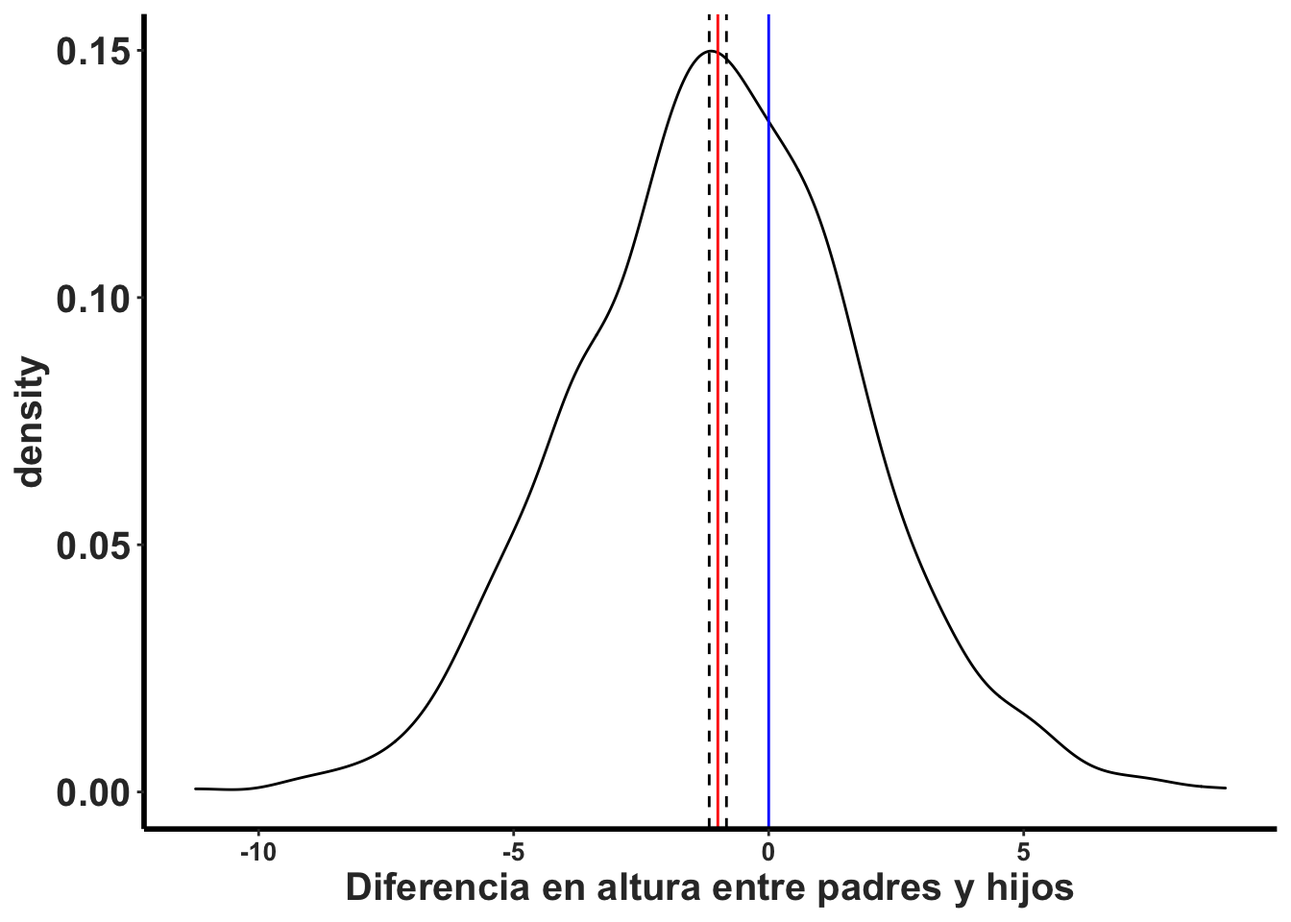
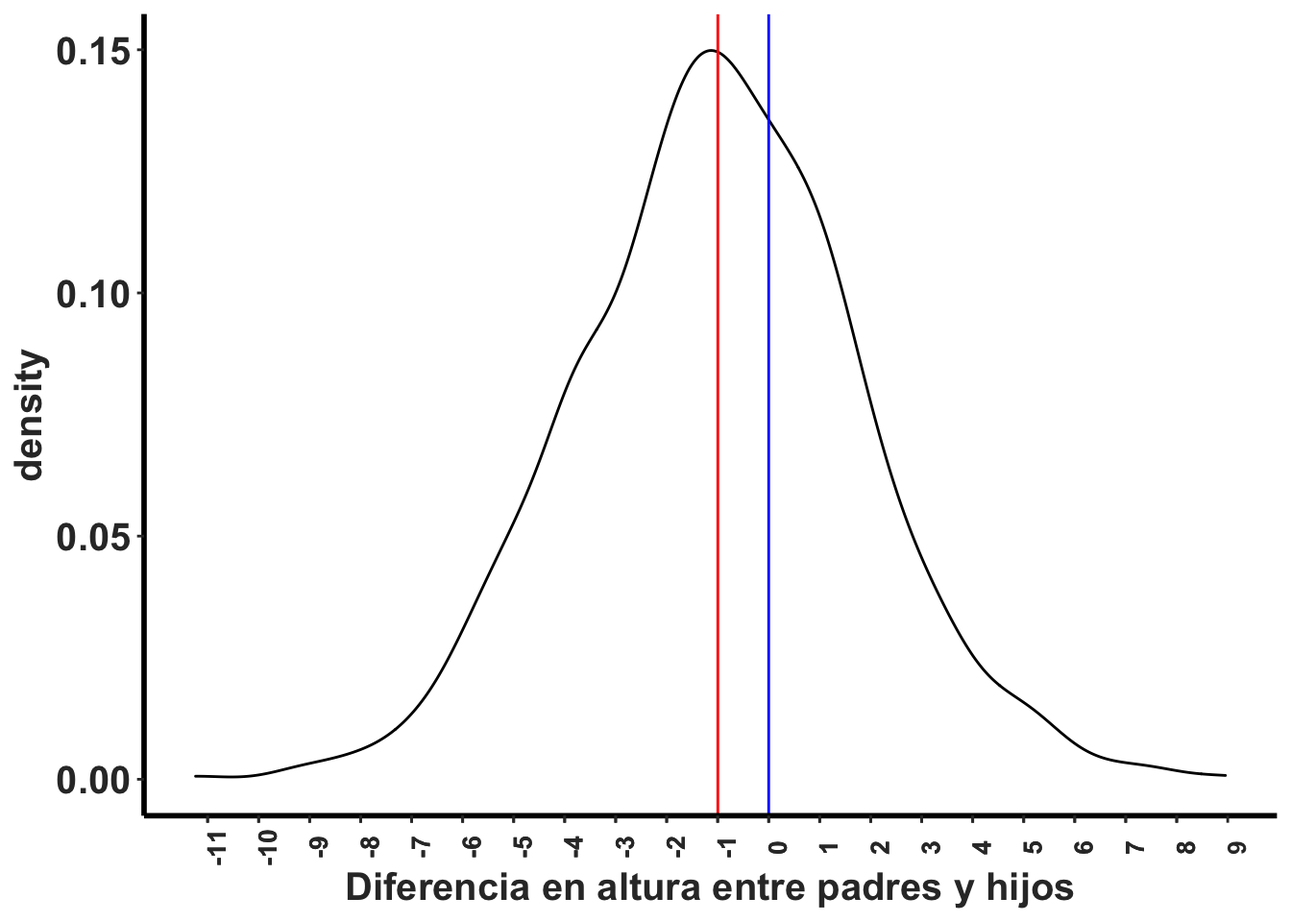
T9a

diff --git a/T9a_Pruebas_t-Pareados.html b/T9a_Pruebas_t-Pareados.html
@@ -489,37 +489,35 @@ div.tocify {
 
 
 <p>Fecha de la ultima revisión</p>
-<pre><code>## [1] &quot;2020-08-06&quot;</code></pre>
-<div id="prueba-de-t-pareado" class="section level1">
-<h1>Prueba de t-pareado</h1>
-<p>Si tienes datos que no son independiente, es necesario usar la prueba con datos pareados (paired t-test). Cuando se refiere a datos no independiente es que hay evidencia que los datos pueden estar relacionado de una forma. En el siguiente ejemplo tenemos la altura de los padres y el altura de el hijo. Hay evidencia que genética influencia la altura de los humanos, también hay el ambiente. Si el ambiente (nutrición, etc) es la única variable que tiene influencia sobre la altura pudiese que no encontramos una relación entre la altura del padre y el hijo.</p>
+<pre><code>## [1] &quot;2020-08-07&quot;</code></pre>
+<div id="datos-dependientes" class="section level1">
+<h1>Datos dependientes</h1>
+<p>Si tienes datos que no son independiente, es necesario usar la prueba con datos pareados (paired t-test). Cuando se refiere a datos no independiente es que hay evidencia que los datos pueden estar relacionado de una forma. En el siguiente ejemplo tenemos la altura de los padres y el altura de el hijo. Hay evidencia que la genética influencia la altura de los humanos, también hay el ambiente. Si el ambiente (nutrición, etc) es la única variable que tiene influencia sobre la altura pudiese que no se debería encontrar una relación entre la altura del padre y el hijo. Si la genética es la única variable que impacta la altura de los humanos, en este caso deberíamos encontrar una muy fuerte correlación entre la alturas de los padres y los hijos.</p>
 <p>Los datos provienen del paquete <strong>UsingR</strong> y el archivo se llama <strong>father.son</strong></p>
+<p>Primero mire los datos y los nombres de las variables.</p>
 <p>Paired Two-Sample T-test</p>
 <pre class="r"><code>require(Hmisc)
 require(UsingR)
 head(father.son)</code></pre>
-<p><table class="huxtable" style="border-collapse: collapse; border: 0px; margin-bottom: 2em; margin-top: 2em; ; margin-left: auto; margin-right: auto;  " id="tab:data">
-<col><col><tr>
-<th style="vertical-align: top; text-align: right; white-space: normal; border-style: solid solid solid solid; border-width: 0.4pt 0pt 0.4pt 0.4pt;    padding: 6pt 6pt 6pt 6pt; font-weight: bold;">fheight</th><th style="vertical-align: top; text-align: right; white-space: normal; border-style: solid solid solid solid; border-width: 0.4pt 0.4pt 0.4pt 0pt;    padding: 6pt 6pt 6pt 6pt; font-weight: bold;">sheight</th></tr>
-<tr>
-<td style="vertical-align: top; text-align: right; white-space: normal; border-style: solid solid solid solid; border-width: 0.4pt 0pt 0pt 0.4pt;    padding: 6pt 6pt 6pt 6pt; background-color: rgb(242, 242, 242); font-weight: normal;">65&nbsp;&nbsp;</td><td style="vertical-align: top; text-align: right; white-space: normal; border-style: solid solid solid solid; border-width: 0.4pt 0.4pt 0pt 0pt;    padding: 6pt 6pt 6pt 6pt; background-color: rgb(242, 242, 242); font-weight: normal;">59.8</td></tr>
-<tr>
-<td style="vertical-align: top; text-align: right; white-space: normal; border-style: solid solid solid solid; border-width: 0pt 0pt 0pt 0.4pt;    padding: 6pt 6pt 6pt 6pt; font-weight: normal;">63.3</td><td style="vertical-align: top; text-align: right; white-space: normal; border-style: solid solid solid solid; border-width: 0pt 0.4pt 0pt 0pt;    padding: 6pt 6pt 6pt 6pt; font-weight: normal;">63.2</td></tr>
-<tr>
-<td style="vertical-align: top; text-align: right; white-space: normal; border-style: solid solid solid solid; border-width: 0pt 0pt 0pt 0.4pt;    padding: 6pt 6pt 6pt 6pt; background-color: rgb(242, 242, 242); font-weight: normal;">65&nbsp;&nbsp;</td><td style="vertical-align: top; text-align: right; white-space: normal; border-style: solid solid solid solid; border-width: 0pt 0.4pt 0pt 0pt;    padding: 6pt 6pt 6pt 6pt; background-color: rgb(242, 242, 242); font-weight: normal;">63.3</td></tr>
-<tr>
-<td style="vertical-align: top; text-align: right; white-space: normal; border-style: solid solid solid solid; border-width: 0pt 0pt 0pt 0.4pt;    padding: 6pt 6pt 6pt 6pt; font-weight: normal;">65.8</td><td style="vertical-align: top; text-align: right; white-space: normal; border-style: solid solid solid solid; border-width: 0pt 0.4pt 0pt 0pt;    padding: 6pt 6pt 6pt 6pt; font-weight: normal;">62.8</td></tr>
-<tr>
-<td style="vertical-align: top; text-align: right; white-space: normal; border-style: solid solid solid solid; border-width: 0pt 0pt 0pt 0.4pt;    padding: 6pt 6pt 6pt 6pt; background-color: rgb(242, 242, 242); font-weight: normal;">61.1</td><td style="vertical-align: top; text-align: right; white-space: normal; border-style: solid solid solid solid; border-width: 0pt 0.4pt 0pt 0pt;    padding: 6pt 6pt 6pt 6pt; background-color: rgb(242, 242, 242); font-weight: normal;">64.3</td></tr>
-<tr>
-<td style="vertical-align: top; text-align: right; white-space: normal; border-style: solid solid solid solid; border-width: 0pt 0pt 0.4pt 0.4pt;    padding: 6pt 6pt 6pt 6pt; font-weight: normal;">63&nbsp;&nbsp;</td><td style="vertical-align: top; text-align: right; white-space: normal; border-style: solid solid solid solid; border-width: 0pt 0.4pt 0.4pt 0pt;    padding: 6pt 6pt 6pt 6pt; font-weight: normal;">64.2</td></tr>
-</table>
- *** ## Visualizar la diferencias</p>
-<p>Antes de hacer la prueba es recomendado hacer un gráfico de puntos para visualizar los datos y observar si hay un patrón. Vemos a medida que aumenta la altura de los padres los hijos tienden a estar más altos.</p>
+<pre><code>##    fheight  sheight
+## 1 65.04851 59.77827
+## 2 63.25094 63.21404
+## 3 64.95532 63.34242
+## 4 65.75250 62.79238
+## 5 61.13723 64.28113
+## 6 63.02254 64.24221</code></pre>
+<hr />
+<div id="visualizar-la-correlación" class="section level2">
+<h2>Visualizar la correlación</h2>
+<p>Antes de hacer la prueba es recomendado hacer un gráfico de puntos para visualizar los datos y observar si hay un patrón. Vemos a medida que aumenta la altura de los padres los hijos tienden a estar más altos. parece que hay una correlación en la altura de los hijos basado en la altura del padre.</p>
 <pre class="r"><code>ggplot(father.son, aes(fheight, sheight))+
   geom_point()+
   rlt_theme</code></pre>
 <p><img src="T9a_Pruebas_t-Pareados_files/figure-html/geompoint-1.png" width="672" /> ***</p>
+</div>
+</div>
+<div id="la-prueba-de-t-pareado" class="section level1">
+<h1>La prueba de t-pareado</h1>
 <p>La prueba de t-con datos pareados es la misma que la prueba de t con un grupo, <strong>t.test()</strong>.</p>
 <p>La hipótesis nula es que la diferencia entre los datos dependientes es igual a cero. La <strong>d</strong> se refiere a la diferencia entre los pares de datos. Nota entonces que el análisis se hace evaluando si el promedio de las diferencias es igual a cero.</p>
 <ul>
@@ -527,7 +525,7 @@ head(father.son)</code></pre>
 <li>Ha: <span class="math inline">\(\overline{x_d}≠0\)</span></li>
 </ul>
 <p>La prueba de t con datos pareados.</p>
-<p><span class="math display">\[t=\bar{\frac{d}{\frac{s_d}{\sqrt{n}}}}\]</span></p>
+<p><span class="math display">\[\left|t\right|=\bar{\frac{d}{\frac{s_d}{\sqrt{n}}}}\]</span></p>
 <p>Si el valor absoluto de las estadísticas de la prueba <span class="math inline">\(\begin{array}{l}t=\left|t\right|\\\end{array}\)</span> es mayor que el valor crítico, entonces la diferencia es significativa. El nivel critico del valor <strong>p</strong> corresponde al indicado en la tabla de la prueba tomando en cuanta el grado de libertad, la cantidad de error I y si es de un lado o ambos lados.</p>
 <p>Las opciones para esta prueba son las siguientes en roja</p>
 <ul>
@@ -538,7 +536,7 @@ head(father.son)</code></pre>
 <li><span style="color: red;">conf.level = 0.95</span>, …).</li>
 </ul></li>
 </ul>
-<p>El resultado: El valor de t-observado es de 11.789, con un grado de libertad de 1077 (n=1078), y valor de p &lt;0.0001. Por consecuencia se rechaza la hipótesis nula y se acepta la alterna. El intervalo de confianza del promedio es -1.163 a -0.831, con un promedio de -0.99. Esto significa que los padres tiende a estar una pulgada (-0.99) más bajo que los hijos.</p>
+<p>El resultado: El valor de <span class="math inline">\(\left|t\right|\)</span> observado es de 11.789, con un grado de libertad de 1077 (n=1078), y un valor de p &lt;0.0001. Por consecuencia se rechaza la hipótesis nula y se acepta la alterna. El intervalo de confianza del promedio es -1.163 a -0.831, con un promedio de -0.99. Esto significa que los padres tiende a estar una pulgada (-0.99) más bajo que los hijos.</p>
 <pre class="r"><code>t.test(father.son$fheight, father.son$sheight, paired=TRUE)</code></pre>
 <pre><code>## 
 ##  Paired t-test
@@ -554,15 +552,17 @@ head(father.son)</code></pre>
 <hr />
 <div id="visualizar-la-diferencias" class="section level2">
 <h2>Visualizar la diferencias</h2>
-<p>Podemos visualizar la diferencia entre los hijos y los padres, vemos el promedio si no tuviese diferencis (la linea azul), y el estimado (el promedio de la diferencias es rojo, con el intervalo de confianza en las lineas entrecortada).</p>
-<pre class="r"><code>heightDiff&lt;-father.son$fheight-father.son$sheight # para calcular la diferencia entre el padre y el hijo. 
+<p>Podemos visualizar la diferencia entre los hijos y los padres. Vemos el promedio si no tuviese diferencia (la linea azul), esto es nuestra hipótesis nula, y el estimado (el promedio de la diferencias es rojo, con el intervalo de confianza en las lineas entrecortada). Si nuestro estimado (el intervalo de confianza de 95%) hubiese incluido la linea azul la prueba no seria significativa, y habriamos aceptado la hipótesis nula.</p>
+<pre class="r"><code>father.son$heightDiff&lt;-father.son$fheight-father.son$sheight # para calcular la diferencia entre el padre y el hijo. 
 ggplot(father.son, aes(x=fheight-sheight))+
   geom_density()+
-  geom_vline(xintercept = mean(heightDiff), colour=&quot;red&quot;)+
-  geom_vline(xintercept = mean(heightDiff)+ 2*c(-1,1)*sd(heightDiff)/sqrt(nrow(father.son)), linetype=2)+
+  geom_vline(xintercept = mean(father.son$heightDiff), colour=&quot;red&quot;)+
+  geom_vline(xintercept = mean(father.son$father.son$heightDiff)+ 2*c(-1,1)*sd(father.son$heightDiff)/sqrt(nrow(father.son)), linetype=2)+
   geom_vline(xintercept = 0, colour=&quot;blue&quot;)+
   rlt_theme+
-  xlab(&quot;Diferencia en altura entre padres y hijos&quot;)</code></pre>
+  xlab(&quot;Diferencia en altura entre padres y hijos&quot;)+
+  scale_x_continuous(breaks = round(seq(min(father.son$heightDiff), max(father.son$heightDiff), by = .5),0))+
+  theme(axis.text.x = element_text(angle = 90))</code></pre>
 <p><img src="T9a_Pruebas_t-Pareados_files/figure-html/graph2-1.png" width="672" /> ***</p>
 </div>
 </div>
@@ -577,82 +577,42 @@ madre=c(2,3,3,3,1,2,2,
         2,2,2,2,1,3,2,2,2)
 df=data.frame(abuela,madre)
 df</code></pre>
-<table class="huxtable" style="border-collapse: collapse; border: 0px; margin-bottom: 2em; margin-top: 2em; ; margin-left: auto; margin-right: auto;  " id="tab:abuelamadre">
-<col><col><tr>
-<th style="vertical-align: top; text-align: right; white-space: normal; border-style: solid solid solid solid; border-width: 0.4pt 0pt 0.4pt 0.4pt;    padding: 6pt 6pt 6pt 6pt; font-weight: bold;">abuela</th><th style="vertical-align: top; text-align: right; white-space: normal; border-style: solid solid solid solid; border-width: 0.4pt 0.4pt 0.4pt 0pt;    padding: 6pt 6pt 6pt 6pt; font-weight: bold;">madre</th></tr>
-<tr>
-<td style="vertical-align: top; text-align: right; white-space: normal; border-style: solid solid solid solid; border-width: 0.4pt 0pt 0pt 0.4pt;    padding: 6pt 6pt 6pt 6pt; background-color: rgb(242, 242, 242); font-weight: normal;">3</td><td style="vertical-align: top; text-align: right; white-space: normal; border-style: solid solid solid solid; border-width: 0.4pt 0.4pt 0pt 0pt;    padding: 6pt 6pt 6pt 6pt; background-color: rgb(242, 242, 242); font-weight: normal;">2</td></tr>
-<tr>
-<td style="vertical-align: top; text-align: right; white-space: normal; border-style: solid solid solid solid; border-width: 0pt 0pt 0pt 0.4pt;    padding: 6pt 6pt 6pt 6pt; font-weight: normal;">11</td><td style="vertical-align: top; text-align: right; white-space: normal; border-style: solid solid solid solid; border-width: 0pt 0.4pt 0pt 0pt;    padding: 6pt 6pt 6pt 6pt; font-weight: normal;">3</td></tr>
-<tr>
-<td style="vertical-align: top; text-align: right; white-space: normal; border-style: solid solid solid solid; border-width: 0pt 0pt 0pt 0.4pt;    padding: 6pt 6pt 6pt 6pt; background-color: rgb(242, 242, 242); font-weight: normal;">3</td><td style="vertical-align: top; text-align: right; white-space: normal; border-style: solid solid solid solid; border-width: 0pt 0.4pt 0pt 0pt;    padding: 6pt 6pt 6pt 6pt; background-color: rgb(242, 242, 242); font-weight: normal;">3</td></tr>
-<tr>
-<td style="vertical-align: top; text-align: right; white-space: normal; border-style: solid solid solid solid; border-width: 0pt 0pt 0pt 0.4pt;    padding: 6pt 6pt 6pt 6pt; font-weight: normal;">9</td><td style="vertical-align: top; text-align: right; white-space: normal; border-style: solid solid solid solid; border-width: 0pt 0.4pt 0pt 0pt;    padding: 6pt 6pt 6pt 6pt; font-weight: normal;">3</td></tr>
-<tr>
-<td style="vertical-align: top; text-align: right; white-space: normal; border-style: solid solid solid solid; border-width: 0pt 0pt 0pt 0.4pt;    padding: 6pt 6pt 6pt 6pt; background-color: rgb(242, 242, 242); font-weight: normal;">3</td><td style="vertical-align: top; text-align: right; white-space: normal; border-style: solid solid solid solid; border-width: 0pt 0.4pt 0pt 0pt;    padding: 6pt 6pt 6pt 6pt; background-color: rgb(242, 242, 242); font-weight: normal;">1</td></tr>
-<tr>
-<td style="vertical-align: top; text-align: right; white-space: normal; border-style: solid solid solid solid; border-width: 0pt 0pt 0pt 0.4pt;    padding: 6pt 6pt 6pt 6pt; font-weight: normal;">3</td><td style="vertical-align: top; text-align: right; white-space: normal; border-style: solid solid solid solid; border-width: 0pt 0.4pt 0pt 0pt;    padding: 6pt 6pt 6pt 6pt; font-weight: normal;">2</td></tr>
-<tr>
-<td style="vertical-align: top; text-align: right; white-space: normal; border-style: solid solid solid solid; border-width: 0pt 0pt 0pt 0.4pt;    padding: 6pt 6pt 6pt 6pt; background-color: rgb(242, 242, 242); font-weight: normal;">3</td><td style="vertical-align: top; text-align: right; white-space: normal; border-style: solid solid solid solid; border-width: 0pt 0.4pt 0pt 0pt;    padding: 6pt 6pt 6pt 6pt; background-color: rgb(242, 242, 242); font-weight: normal;">2</td></tr>
-<tr>
-<td style="vertical-align: top; text-align: right; white-space: normal; border-style: solid solid solid solid; border-width: 0pt 0pt 0pt 0.4pt;    padding: 6pt 6pt 6pt 6pt; font-weight: normal;">4</td><td style="vertical-align: top; text-align: right; white-space: normal; border-style: solid solid solid solid; border-width: 0pt 0.4pt 0pt 0pt;    padding: 6pt 6pt 6pt 6pt; font-weight: normal;">2</td></tr>
-<tr>
-<td style="vertical-align: top; text-align: right; white-space: normal; border-style: solid solid solid solid; border-width: 0pt 0pt 0pt 0.4pt;    padding: 6pt 6pt 6pt 6pt; background-color: rgb(242, 242, 242); font-weight: normal;">3</td><td style="vertical-align: top; text-align: right; white-space: normal; border-style: solid solid solid solid; border-width: 0pt 0.4pt 0pt 0pt;    padding: 6pt 6pt 6pt 6pt; background-color: rgb(242, 242, 242); font-weight: normal;">2</td></tr>
-<tr>
-<td style="vertical-align: top; text-align: right; white-space: normal; border-style: solid solid solid solid; border-width: 0pt 0pt 0pt 0.4pt;    padding: 6pt 6pt 6pt 6pt; font-weight: normal;">7</td><td style="vertical-align: top; text-align: right; white-space: normal; border-style: solid solid solid solid; border-width: 0pt 0.4pt 0pt 0pt;    padding: 6pt 6pt 6pt 6pt; font-weight: normal;">2</td></tr>
-<tr>
-<td style="vertical-align: top; text-align: right; white-space: normal; border-style: solid solid solid solid; border-width: 0pt 0pt 0pt 0.4pt;    padding: 6pt 6pt 6pt 6pt; background-color: rgb(242, 242, 242); font-weight: normal;">6</td><td style="vertical-align: top; text-align: right; white-space: normal; border-style: solid solid solid solid; border-width: 0pt 0.4pt 0pt 0pt;    padding: 6pt 6pt 6pt 6pt; background-color: rgb(242, 242, 242); font-weight: normal;">2</td></tr>
-<tr>
-<td style="vertical-align: top; text-align: right; white-space: normal; border-style: solid solid solid solid; border-width: 0pt 0pt 0pt 0.4pt;    padding: 6pt 6pt 6pt 6pt; font-weight: normal;">7</td><td style="vertical-align: top; text-align: right; white-space: normal; border-style: solid solid solid solid; border-width: 0pt 0.4pt 0pt 0pt;    padding: 6pt 6pt 6pt 6pt; font-weight: normal;">1</td></tr>
-<tr>
-<td style="vertical-align: top; text-align: right; white-space: normal; border-style: solid solid solid solid; border-width: 0pt 0pt 0pt 0.4pt;    padding: 6pt 6pt 6pt 6pt; background-color: rgb(242, 242, 242); font-weight: normal;">6</td><td style="vertical-align: top; text-align: right; white-space: normal; border-style: solid solid solid solid; border-width: 0pt 0.4pt 0pt 0pt;    padding: 6pt 6pt 6pt 6pt; background-color: rgb(242, 242, 242); font-weight: normal;">3</td></tr>
-<tr>
-<td style="vertical-align: top; text-align: right; white-space: normal; border-style: solid solid solid solid; border-width: 0pt 0pt 0pt 0.4pt;    padding: 6pt 6pt 6pt 6pt; font-weight: normal;">3</td><td style="vertical-align: top; text-align: right; white-space: normal; border-style: solid solid solid solid; border-width: 0pt 0.4pt 0pt 0pt;    padding: 6pt 6pt 6pt 6pt; font-weight: normal;">2</td></tr>
-<tr>
-<td style="vertical-align: top; text-align: right; white-space: normal; border-style: solid solid solid solid; border-width: 0pt 0pt 0pt 0.4pt;    padding: 6pt 6pt 6pt 6pt; background-color: rgb(242, 242, 242); font-weight: normal;">2</td><td style="vertical-align: top; text-align: right; white-space: normal; border-style: solid solid solid solid; border-width: 0pt 0.4pt 0pt 0pt;    padding: 6pt 6pt 6pt 6pt; background-color: rgb(242, 242, 242); font-weight: normal;">2</td></tr>
-<tr>
-<td style="vertical-align: top; text-align: right; white-space: normal; border-style: solid solid solid solid; border-width: 0pt 0pt 0.4pt 0.4pt;    padding: 6pt 6pt 6pt 6pt; font-weight: normal;">4</td><td style="vertical-align: top; text-align: right; white-space: normal; border-style: solid solid solid solid; border-width: 0pt 0.4pt 0.4pt 0pt;    padding: 6pt 6pt 6pt 6pt; font-weight: normal;">2</td></tr>
-</table>
-
+<pre><code>##    abuela madre
+## 1       3     2
+## 2      11     3
+## 3       3     3
+## 4       9     3
+## 5       3     1
+## 6       3     2
+## 7       3     2
+## 8       4     2
+## 9       3     2
+## 10      7     2
+## 11      6     2
+## 12      7     1
+## 13      6     3
+## 14      3     2
+## 15      2     2
+## 16      4     2</code></pre>
 <pre class="r"><code>df$diff=df$abuela-df$madre
 df</code></pre>
-<table class="huxtable" style="border-collapse: collapse; border: 0px; margin-bottom: 2em; margin-top: 2em; ; margin-left: auto; margin-right: auto;  " id="tab:abuelamadre">
-<col><col><col><tr>
-<th style="vertical-align: top; text-align: right; white-space: normal; border-style: solid solid solid solid; border-width: 0.4pt 0pt 0.4pt 0.4pt;    padding: 6pt 6pt 6pt 6pt; font-weight: bold;">abuela</th><th style="vertical-align: top; text-align: right; white-space: normal; border-style: solid solid solid solid; border-width: 0.4pt 0pt 0.4pt 0pt;    padding: 6pt 6pt 6pt 6pt; font-weight: bold;">madre</th><th style="vertical-align: top; text-align: right; white-space: normal; border-style: solid solid solid solid; border-width: 0.4pt 0.4pt 0.4pt 0pt;    padding: 6pt 6pt 6pt 6pt; font-weight: bold;">diff</th></tr>
-<tr>
-<td style="vertical-align: top; text-align: right; white-space: normal; border-style: solid solid solid solid; border-width: 0.4pt 0pt 0pt 0.4pt;    padding: 6pt 6pt 6pt 6pt; background-color: rgb(242, 242, 242); font-weight: normal;">3</td><td style="vertical-align: top; text-align: right; white-space: normal; border-style: solid solid solid solid; border-width: 0.4pt 0pt 0pt 0pt;    padding: 6pt 6pt 6pt 6pt; background-color: rgb(242, 242, 242); font-weight: normal;">2</td><td style="vertical-align: top; text-align: right; white-space: normal; border-style: solid solid solid solid; border-width: 0.4pt 0.4pt 0pt 0pt;    padding: 6pt 6pt 6pt 6pt; background-color: rgb(242, 242, 242); font-weight: normal;">1</td></tr>
-<tr>
-<td style="vertical-align: top; text-align: right; white-space: normal; border-style: solid solid solid solid; border-width: 0pt 0pt 0pt 0.4pt;    padding: 6pt 6pt 6pt 6pt; font-weight: normal;">11</td><td style="vertical-align: top; text-align: right; white-space: normal; padding: 6pt 6pt 6pt 6pt; font-weight: normal;">3</td><td style="vertical-align: top; text-align: right; white-space: normal; border-style: solid solid solid solid; border-width: 0pt 0.4pt 0pt 0pt;    padding: 6pt 6pt 6pt 6pt; font-weight: normal;">8</td></tr>
-<tr>
-<td style="vertical-align: top; text-align: right; white-space: normal; border-style: solid solid solid solid; border-width: 0pt 0pt 0pt 0.4pt;    padding: 6pt 6pt 6pt 6pt; background-color: rgb(242, 242, 242); font-weight: normal;">3</td><td style="vertical-align: top; text-align: right; white-space: normal; padding: 6pt 6pt 6pt 6pt; background-color: rgb(242, 242, 242); font-weight: normal;">3</td><td style="vertical-align: top; text-align: right; white-space: normal; border-style: solid solid solid solid; border-width: 0pt 0.4pt 0pt 0pt;    padding: 6pt 6pt 6pt 6pt; background-color: rgb(242, 242, 242); font-weight: normal;">0</td></tr>
-<tr>
-<td style="vertical-align: top; text-align: right; white-space: normal; border-style: solid solid solid solid; border-width: 0pt 0pt 0pt 0.4pt;    padding: 6pt 6pt 6pt 6pt; font-weight: normal;">9</td><td style="vertical-align: top; text-align: right; white-space: normal; padding: 6pt 6pt 6pt 6pt; font-weight: normal;">3</td><td style="vertical-align: top; text-align: right; white-space: normal; border-style: solid solid solid solid; border-width: 0pt 0.4pt 0pt 0pt;    padding: 6pt 6pt 6pt 6pt; font-weight: normal;">6</td></tr>
-<tr>
-<td style="vertical-align: top; text-align: right; white-space: normal; border-style: solid solid solid solid; border-width: 0pt 0pt 0pt 0.4pt;    padding: 6pt 6pt 6pt 6pt; background-color: rgb(242, 242, 242); font-weight: normal;">3</td><td style="vertical-align: top; text-align: right; white-space: normal; padding: 6pt 6pt 6pt 6pt; background-color: rgb(242, 242, 242); font-weight: normal;">1</td><td style="vertical-align: top; text-align: right; white-space: normal; border-style: solid solid solid solid; border-width: 0pt 0.4pt 0pt 0pt;    padding: 6pt 6pt 6pt 6pt; background-color: rgb(242, 242, 242); font-weight: normal;">2</td></tr>
-<tr>
-<td style="vertical-align: top; text-align: right; white-space: normal; border-style: solid solid solid solid; border-width: 0pt 0pt 0pt 0.4pt;    padding: 6pt 6pt 6pt 6pt; font-weight: normal;">3</td><td style="vertical-align: top; text-align: right; white-space: normal; padding: 6pt 6pt 6pt 6pt; font-weight: normal;">2</td><td style="vertical-align: top; text-align: right; white-space: normal; border-style: solid solid solid solid; border-width: 0pt 0.4pt 0pt 0pt;    padding: 6pt 6pt 6pt 6pt; font-weight: normal;">1</td></tr>
-<tr>
-<td style="vertical-align: top; text-align: right; white-space: normal; border-style: solid solid solid solid; border-width: 0pt 0pt 0pt 0.4pt;    padding: 6pt 6pt 6pt 6pt; background-color: rgb(242, 242, 242); font-weight: normal;">3</td><td style="vertical-align: top; text-align: right; white-space: normal; padding: 6pt 6pt 6pt 6pt; background-color: rgb(242, 242, 242); font-weight: normal;">2</td><td style="vertical-align: top; text-align: right; white-space: normal; border-style: solid solid solid solid; border-width: 0pt 0.4pt 0pt 0pt;    padding: 6pt 6pt 6pt 6pt; background-color: rgb(242, 242, 242); font-weight: normal;">1</td></tr>
-<tr>
-<td style="vertical-align: top; text-align: right; white-space: normal; border-style: solid solid solid solid; border-width: 0pt 0pt 0pt 0.4pt;    padding: 6pt 6pt 6pt 6pt; font-weight: normal;">4</td><td style="vertical-align: top; text-align: right; white-space: normal; padding: 6pt 6pt 6pt 6pt; font-weight: normal;">2</td><td style="vertical-align: top; text-align: right; white-space: normal; border-style: solid solid solid solid; border-width: 0pt 0.4pt 0pt 0pt;    padding: 6pt 6pt 6pt 6pt; font-weight: normal;">2</td></tr>
-<tr>
-<td style="vertical-align: top; text-align: right; white-space: normal; border-style: solid solid solid solid; border-width: 0pt 0pt 0pt 0.4pt;    padding: 6pt 6pt 6pt 6pt; background-color: rgb(242, 242, 242); font-weight: normal;">3</td><td style="vertical-align: top; text-align: right; white-space: normal; padding: 6pt 6pt 6pt 6pt; background-color: rgb(242, 242, 242); font-weight: normal;">2</td><td style="vertical-align: top; text-align: right; white-space: normal; border-style: solid solid solid solid; border-width: 0pt 0.4pt 0pt 0pt;    padding: 6pt 6pt 6pt 6pt; background-color: rgb(242, 242, 242); font-weight: normal;">1</td></tr>
-<tr>
-<td style="vertical-align: top; text-align: right; white-space: normal; border-style: solid solid solid solid; border-width: 0pt 0pt 0pt 0.4pt;    padding: 6pt 6pt 6pt 6pt; font-weight: normal;">7</td><td style="vertical-align: top; text-align: right; white-space: normal; padding: 6pt 6pt 6pt 6pt; font-weight: normal;">2</td><td style="vertical-align: top; text-align: right; white-space: normal; border-style: solid solid solid solid; border-width: 0pt 0.4pt 0pt 0pt;    padding: 6pt 6pt 6pt 6pt; font-weight: normal;">5</td></tr>
-<tr>
-<td style="vertical-align: top; text-align: right; white-space: normal; border-style: solid solid solid solid; border-width: 0pt 0pt 0pt 0.4pt;    padding: 6pt 6pt 6pt 6pt; background-color: rgb(242, 242, 242); font-weight: normal;">6</td><td style="vertical-align: top; text-align: right; white-space: normal; padding: 6pt 6pt 6pt 6pt; background-color: rgb(242, 242, 242); font-weight: normal;">2</td><td style="vertical-align: top; text-align: right; white-space: normal; border-style: solid solid solid solid; border-width: 0pt 0.4pt 0pt 0pt;    padding: 6pt 6pt 6pt 6pt; background-color: rgb(242, 242, 242); font-weight: normal;">4</td></tr>
-<tr>
-<td style="vertical-align: top; text-align: right; white-space: normal; border-style: solid solid solid solid; border-width: 0pt 0pt 0pt 0.4pt;    padding: 6pt 6pt 6pt 6pt; font-weight: normal;">7</td><td style="vertical-align: top; text-align: right; white-space: normal; padding: 6pt 6pt 6pt 6pt; font-weight: normal;">1</td><td style="vertical-align: top; text-align: right; white-space: normal; border-style: solid solid solid solid; border-width: 0pt 0.4pt 0pt 0pt;    padding: 6pt 6pt 6pt 6pt; font-weight: normal;">6</td></tr>
-<tr>
-<td style="vertical-align: top; text-align: right; white-space: normal; border-style: solid solid solid solid; border-width: 0pt 0pt 0pt 0.4pt;    padding: 6pt 6pt 6pt 6pt; background-color: rgb(242, 242, 242); font-weight: normal;">6</td><td style="vertical-align: top; text-align: right; white-space: normal; padding: 6pt 6pt 6pt 6pt; background-color: rgb(242, 242, 242); font-weight: normal;">3</td><td style="vertical-align: top; text-align: right; white-space: normal; border-style: solid solid solid solid; border-width: 0pt 0.4pt 0pt 0pt;    padding: 6pt 6pt 6pt 6pt; background-color: rgb(242, 242, 242); font-weight: normal;">3</td></tr>
-<tr>
-<td style="vertical-align: top; text-align: right; white-space: normal; border-style: solid solid solid solid; border-width: 0pt 0pt 0pt 0.4pt;    padding: 6pt 6pt 6pt 6pt; font-weight: normal;">3</td><td style="vertical-align: top; text-align: right; white-space: normal; padding: 6pt 6pt 6pt 6pt; font-weight: normal;">2</td><td style="vertical-align: top; text-align: right; white-space: normal; border-style: solid solid solid solid; border-width: 0pt 0.4pt 0pt 0pt;    padding: 6pt 6pt 6pt 6pt; font-weight: normal;">1</td></tr>
-<tr>
-<td style="vertical-align: top; text-align: right; white-space: normal; border-style: solid solid solid solid; border-width: 0pt 0pt 0pt 0.4pt;    padding: 6pt 6pt 6pt 6pt; background-color: rgb(242, 242, 242); font-weight: normal;">2</td><td style="vertical-align: top; text-align: right; white-space: normal; padding: 6pt 6pt 6pt 6pt; background-color: rgb(242, 242, 242); font-weight: normal;">2</td><td style="vertical-align: top; text-align: right; white-space: normal; border-style: solid solid solid solid; border-width: 0pt 0.4pt 0pt 0pt;    padding: 6pt 6pt 6pt 6pt; background-color: rgb(242, 242, 242); font-weight: normal;">0</td></tr>
-<tr>
-<td style="vertical-align: top; text-align: right; white-space: normal; border-style: solid solid solid solid; border-width: 0pt 0pt 0.4pt 0.4pt;    padding: 6pt 6pt 6pt 6pt; font-weight: normal;">4</td><td style="vertical-align: top; text-align: right; white-space: normal; border-style: solid solid solid solid; border-width: 0pt 0pt 0.4pt 0pt;    padding: 6pt 6pt 6pt 6pt; font-weight: normal;">2</td><td style="vertical-align: top; text-align: right; white-space: normal; border-style: solid solid solid solid; border-width: 0pt 0.4pt 0.4pt 0pt;    padding: 6pt 6pt 6pt 6pt; font-weight: normal;">2</td></tr>
-</table>
-
+<pre><code>##    abuela madre diff
+## 1       3     2    1
+## 2      11     3    8
+## 3       3     3    0
+## 4       9     3    6
+## 5       3     1    2
+## 6       3     2    1
+## 7       3     2    1
+## 8       4     2    2
+## 9       3     2    1
+## 10      7     2    5
+## 11      6     2    4
+## 12      7     1    6
+## 13      6     3    3
+## 14      3     2    1
+## 15      2     2    0
+## 16      4     2    2</code></pre>
 <pre class="r"><code>mean(df$diff)</code></pre>
 <pre><code>## [1] 2.6875</code></pre>
 <pre class="r"><code>t.test(df$abuela,df$madre, paired=TRUE)</code></pre>
@@ -672,7 +632,7 @@ df</code></pre>
 </div>
 <div id="cultivador-de-toronjas-con-parcelas-pareadas" class="section level1">
 <h1>Cultivador de Toronjas con parcelas pareadas</h1>
-<p>Un cultivador heredo parcelas donde hay árboles de toronjas. El quiere saber si al añadir abono, la cosecha de toronjas aumenta. El efecto del abono sobre la producción de toronjas en parcelas pareadas en Puerto Rico.</p>
+<p>Un cultivador heredo 18 parcelas donde hay árboles de toronjas cada una en diferentes municipios. El quiere saber si al añadir abono, la cosecha de toronjas aumenta. El podría decidir que de seleccionar 9 de estas parcelas y añadir abono y las otras 9 sin abono. El problema con este diseño experimental es que es bien conocido que el suelo varia de un sitio a otro y que el clima varia también. Es más apropiado que el divide cada parcela en 2, y que la mitad recibe el abono y la otra mitad sirva de control (sin abono). Cual sera el efecto del abono sobre la producción de toronjas en parcelas pareadas en Puerto Rico.</p>
 <p>La cantidad de Toronjas producidas por árbol en fincas pareadas, cada finca tiene una parcela con abono y la otra la otra parcela sin abono. Tenemos 18 diferentes sitios en PR donde se probo el efecto del abono sobre la producción de toronjas, se enseña solamente los primeros 8 pares de valores en la tabla. Cada parcela es del mismo tamaño con la misma cantidad de arboles. Los datos completos están en el próximo chunk.</p>
 <pre class="r"><code>library(tibble)
 library(huxtable)
@@ -716,8 +676,8 @@ huxtable(Toronja)%&gt;%
 <tr>
 <td style="vertical-align: top; text-align: left; white-space: normal; border-style: solid solid solid solid; border-width: 0pt 0pt 0.4pt 0pt;    padding: 6pt 6pt 6pt 0pt; font-weight: normal;">2090</td><td style="vertical-align: top; text-align: left; white-space: normal; border-style: solid solid solid solid; border-width: 0pt 0pt 0.4pt 0pt;    padding: 6pt 6pt 6pt 6pt; font-weight: normal;">1790</td><td style="vertical-align: top; text-align: left; white-space: normal; border-style: solid solid solid solid; border-width: 0pt 0pt 0.4pt 0pt;    padding: 6pt 0pt 6pt 6pt; font-weight: normal;">Ponce</td></tr>
 </table>
- 1. Primero añademos los datos en listas y la unimos en un df.<br />
-2. Se calcula la diferencias de producción de toronjas por parcela 3. Cual es el promedio de las diferencias 4. La prueba de t con datos pareado.</p>
+ 1. Primero añadimos los datos en listas y la unimos en un df.<br />
+2. Se calcula la diferencias de producción de toronjas por parcela. 3. Cual es el promedio de las diferencias. 4. Hacer la prueba de t con datos pareado.</p>
 <p>El resultado: El valor de t-observado es de 8.80, con un grado de libertad de 17 (n=18), y valor de p &lt;0.0001. Por consecuencia se rechaza la hipótesis nula y se acepta la alterna. El intervalo de confianza del promedio es 198.5 - 323.7, con un promedio de 261. Esto significa que a añadir fertilizante la producción de toronjas aumento de en promedio de 261 toronjas.</p>
 <pre class="r"><code>Fert=c(2250,2410, 2260,2200, 2360, 
      2320,2240,2300,2090, 2250,2410, 2260,2200, 2360, 
@@ -744,17 +704,18 @@ mean(df$diff_produccion) # el promedio de las diferencias</code></pre>
 ## sample estimates:
 ## mean of the differences 
 ##                261.1111</code></pre>
+<hr />
 </div>
 <div id="el-número-de-hojas-por-planta-en-diferentes-momentos-tiempo." class="section level1">
 <h1>El número de Hojas por planta en diferentes momentos (tiempo).</h1>
-<p>Los datos representa cuantas hojas tenían las plantas en diferentes momentos de su muestreo. Por consecuencia los datos nos son independiente. Los datos provienen de datos recolectados en el Yunque en una pequeña orquídea epifita, <em>Lepanthes eltoroensis</em> Stimson. Aquí una foto de la planta.</p>
+<p>Los datos representa cuantas hojas tenían las <strong>mismas</strong> plantas en diferentes momentos de su muestreo. Por consecuencia los datos nos son independiente. Los datos provienen de datos recolectados en el Yunque en una pequeña orquídea epifita, <em>Lepanthes eltoroensis</em> Stimson. Aquí una foto de la planta.</p>
 <div class="figure" style="text-align: center">
 <img src="Graficos/L_eltoroensis.jpg" alt="*Lepanthes eltoroensis*" width="40%" />
 <p class="caption">
 <em>Lepanthes eltoroensis</em>
 </p>
 </div>
-<p>El archivo de datos tiene información sobre la cantidad de hojas que tiene cada una de las plantas marcadas después del huracán Georges (1998). La plantas fueron muestreado a cada 6 meses comenzando 6 meses después del huracán por 6 años (13 muestreos). Fueron seguidos 1084 plantas, aunque no todos están muestreados a cada tiempo. Cada fila representa un individuo, si no hay información en un tiempo puede ser que la planta no fue encontrada en este muestreo, que la planta este muerta o que fue antes que la planta creciera (todavía no había germinado).</p>
+<p>El archivo de datos tiene información sobre la cantidad de hojas que tiene cada una de las plantas marcadas después del huracán Georges (1998). La plantas fueron muestreado a cada 6 meses comenzando 6 meses después del huracán por 6 años (13 muestreos). Fueron seguidos 1084 plantas distintas, aunque no todos están muestreados a cada tiempo. Cada fila representa un individuo, si no hay información en un tiempo puede ser que la planta a) no fue encontrada en este muestreo, b) que la planta este muerta o que c) fue antes que la planta creciera (todavía no había germinado).</p>
 <pre class="r"><code>library(readr)
 Lepanthes_eltoroensis_Georges_STUDENT &lt;- read_csv(&quot;Data_files_csv/Lepanthes_eltoroensis_Georges_STUDENT.csv&quot;)
 
@@ -779,12 +740,13 @@ head(Lep)</code></pre>
 
 <pre class="r"><code>length(Lep$T1)</code></pre>
 <pre><code>## [1] 1084</code></pre>
-<p>Comparamos si la cantidad de hojas por plante es igual entre el primer muestreo (1) y el segundo muestreo (2).</p>
+<hr />
+<p>Compara si la cantidad de hojas por plante es igual entre el primer muestreo (1) y el segundo muestreo (2).</p>
+<p><span style="color: blue;">Cual son sus conclusiones.</span></p>
 <ol style="list-style-type: decimal">
-<li><p>Cual es su conclusiones.</p></li>
-<li><p>Cuantas plantas fueron muestreadas en ambos periodos?</p></li>
-<li><p>Cual es el valor de t observado?</p></li>
-<li><p>Se acepta o rechaza la hipótesis nula?</p></li>
+<li>Cuantas plantas fueron muestreadas en ambos periodos?</li>
+<li>Cual es el valor de t observado?</li>
+<li>Se acepta o rechaza la hipótesis nula?</li>
 </ol>
 <ul>
 <li>la plantas en el tiempo 2 tienen mayor hojas</li>
@@ -795,29 +757,30 @@ head(Lep)</code></pre>
 <li>Cual es el intervalo de confianza del promedio?</li>
 <li>Cual es el promedio de diferencias entre un muestreo y el otro</li>
 </ol>
-<pre class="r"><code>model2=t.test(Lep$T3,Lep$T1, paired =TRUE)
+<pre class="r"><code>model2=t.test(Lep$T2,Lep$T1, paired =TRUE)
 model2</code></pre>
 <pre><code>## 
 ##  Paired t-test
 ## 
-## data:  Lep$T3 and Lep$T1
-## t = -2.0897, df = 380, p-value = 0.03731
+## data:  Lep$T2 and Lep$T1
+## t = -2.2312, df = 402, p-value = 0.02622
 ## alternative hypothesis: true difference in means is not equal to 0
 ## 95 percent confidence interval:
-##  -0.178298843 -0.005428191
+##  -0.19137590 -0.01209805
 ## sample estimates:
 ## mean of the differences 
-##             -0.09186352</code></pre>
-</div>
-<div id="supuestos-de-la-prueba-de-t-con-datos-pareados." class="section level1">
-<h1>Supuestos de la prueba de t con datos pareados.</h1>
+##               -0.101737</code></pre>
+<hr />
+<div id="supuestos-de-la-prueba-de-t-con-datos-pareados." class="section level2">
+<h2>Supuestos de la prueba de t con datos pareados.</h2>
 <p>Los supuestos de la prueba t-pareados.</p>
 <ol style="list-style-type: decimal">
-<li>Las variables dependientes sean valores continuos (intervalos o razón)</li>
-<li>Que los individuos sean observaciones independientes</li>
+<li>Las variables dependientes sean valores continuos (intervalos o razón).</li>
+<li>Que los individuos sean observaciones independientes.</li>
 <li>Que las diferencias sean normales.</li>
-<li>que no hay valores atípicos.</li>
+<li>Que no hay valores atípicos.</li>
 </ol>
+</div>
 </div>
 
 
